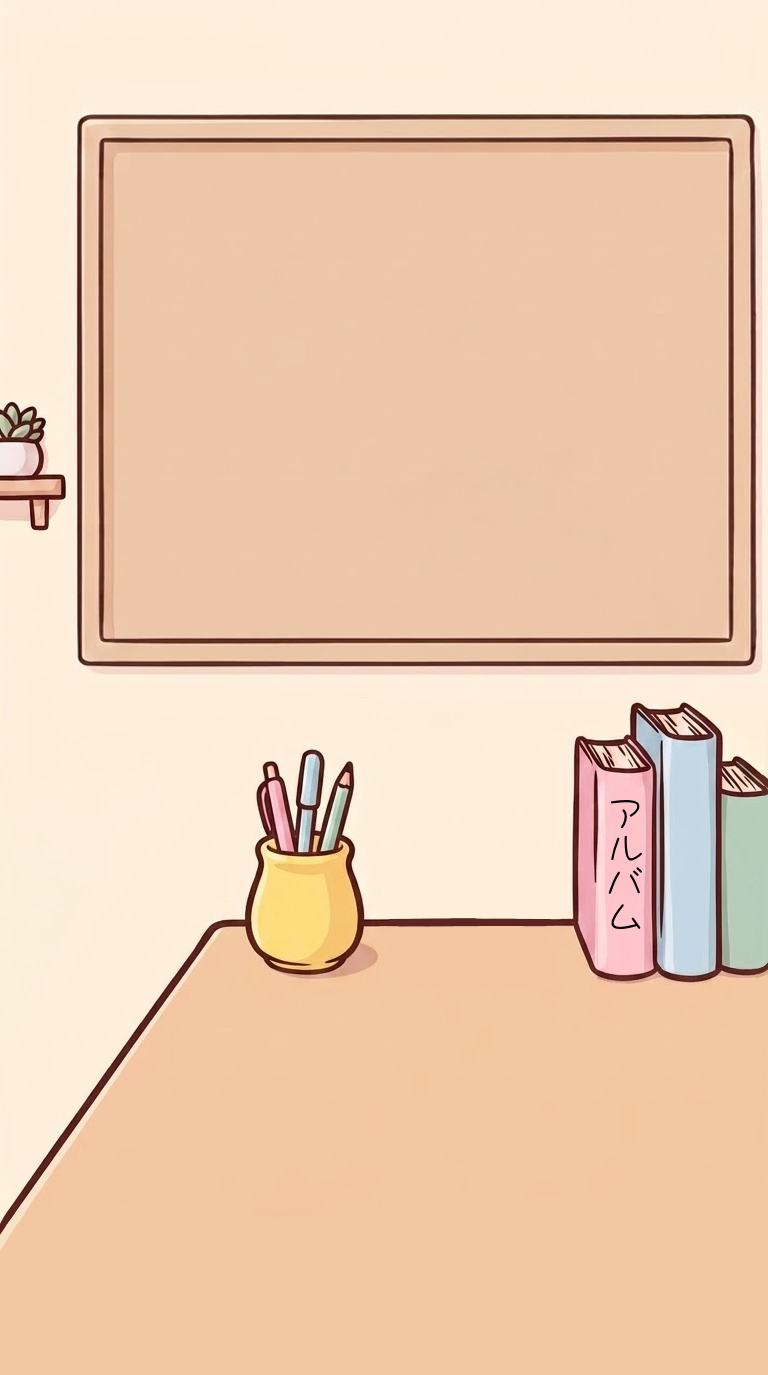
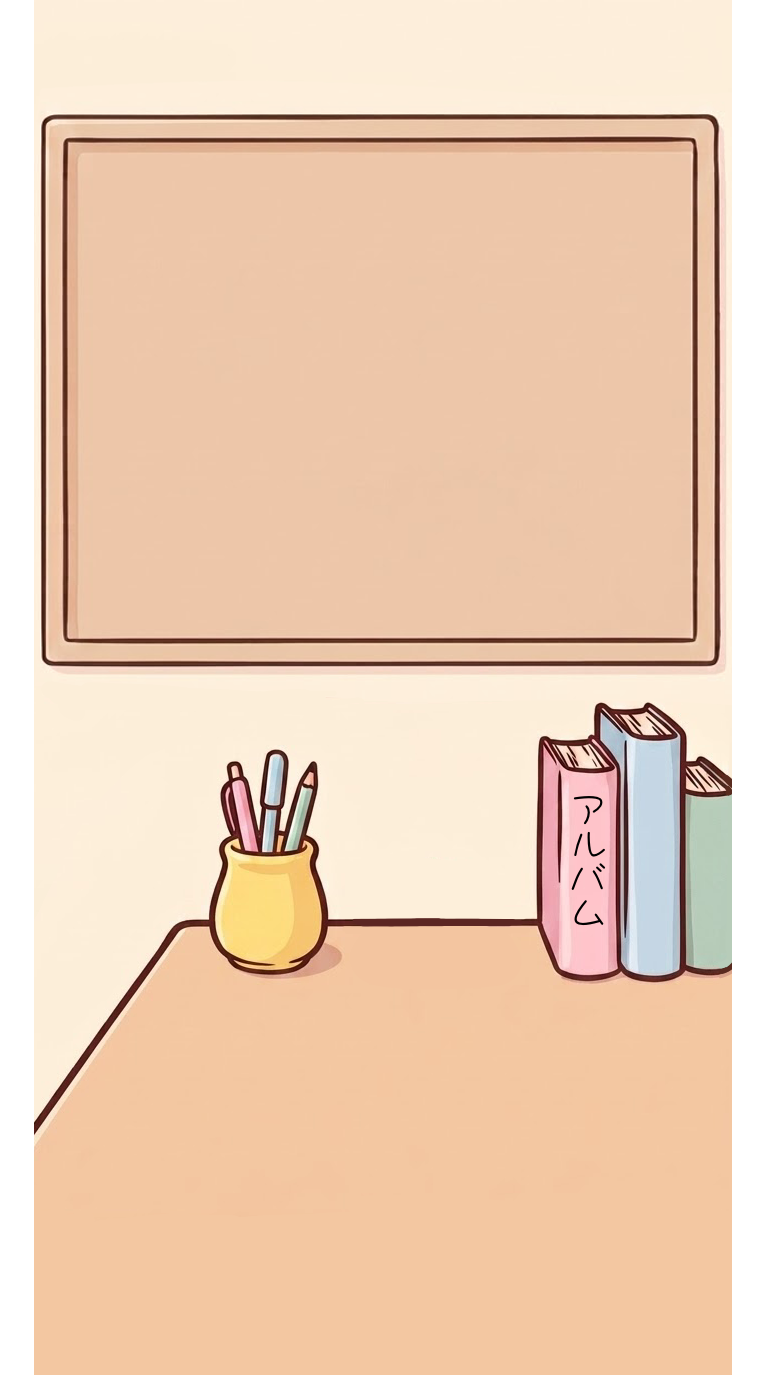
ホーム画面のタップ領域とタスクボード位置を調整

Changed region(s): [[0.0, 0.0, 0.5, 1.0], [0.6875, 0.0, 1.0, 1.0]]

diff --git a/frontend/lib/screens/home_screen.dart b/frontend/lib/screens/home_screen.dart
@@ -30,10 +30,10 @@ class _HomeScreenState extends State<HomeScreen> {
   // Tap region for the whole bookshelf (pen cup, plant, all the books) —
   // tapping anywhere here opens the album, even though only the red book
   // visibly reacts.
-  static const double _shelfLeft = 0.735;
-  static const double _shelfTop = 0.505;
-  static const double _shelfW = 0.265;
-  static const double _shelfH = 0.21;
+  static const double _shelfLeft = 0.70;
+  static const double _shelfTop = 0.52;
+  static const double _shelfW = 0.26;
+  static const double _shelfH = 0.20;
 
   // The animated red "album" book sprite (book1.png / book2.png) — drawn
   // at its native crop size (scale 1.0 = no scaling), positioned right next
@@ -42,7 +42,7 @@ class _HomeScreenState extends State<HomeScreen> {
   static const double _bookScale = 1.0;
   static const double _bookW = _bookNativeW;
   static const double _bookH = _bookNativeH;
-  static const double _pinkBookLeft = 0.742;
+  static const double _pinkBookLeft = 0.702;
   static const double _pinkBookBottom = 0.711;
   static const double _bookOverlap = 0.02; // slight touch into the pink book
   static const double _bookLeft = _pinkBookLeft - _bookW + _bookOverlap;
@@ -127,8 +127,8 @@ class _HomeScreenState extends State<HomeScreen> {
                 ),
               ),
               Positioned(
-                left: _designWidth * 0.13, top: _designHeight * 0.16,
-                width: _designWidth * 0.75, height: _designHeight * 0.32,
+                left: _designWidth * 0.09, top: _designHeight * 0.13,
+                width: _designWidth * 0.80, height: _designHeight * 0.30,
                 child: _taskBoard(),
               ),
               Positioned(
